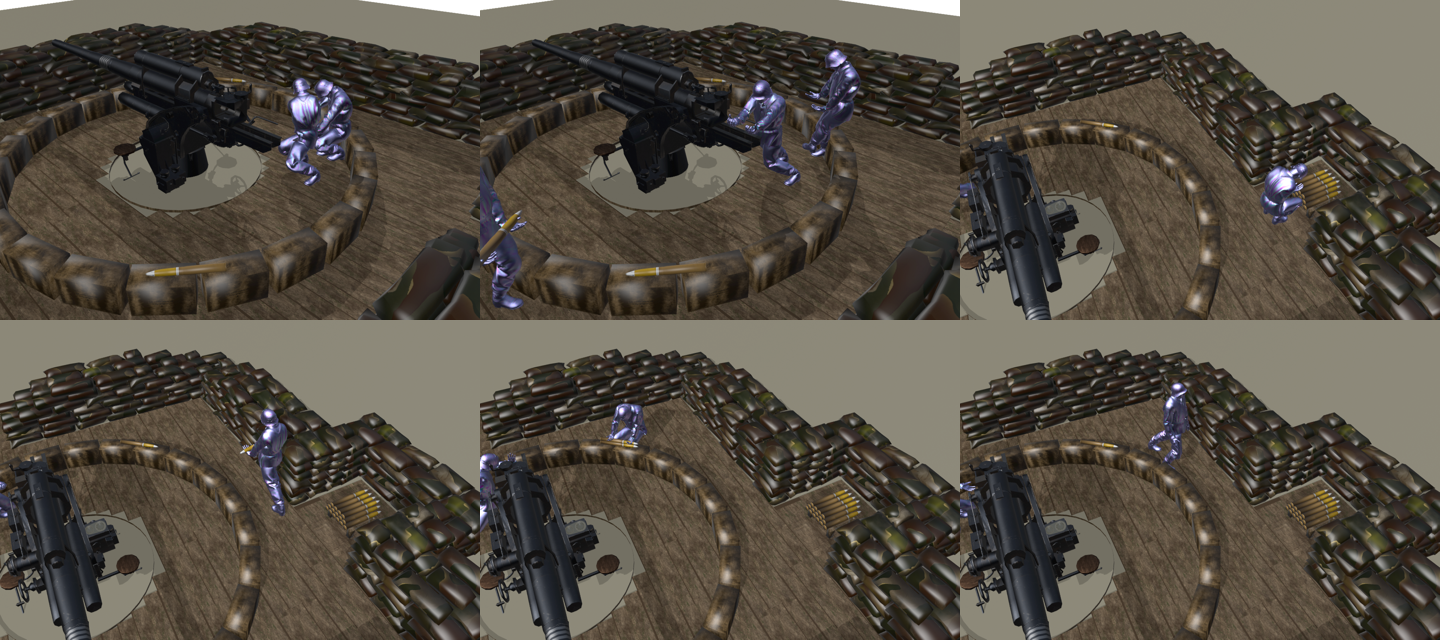
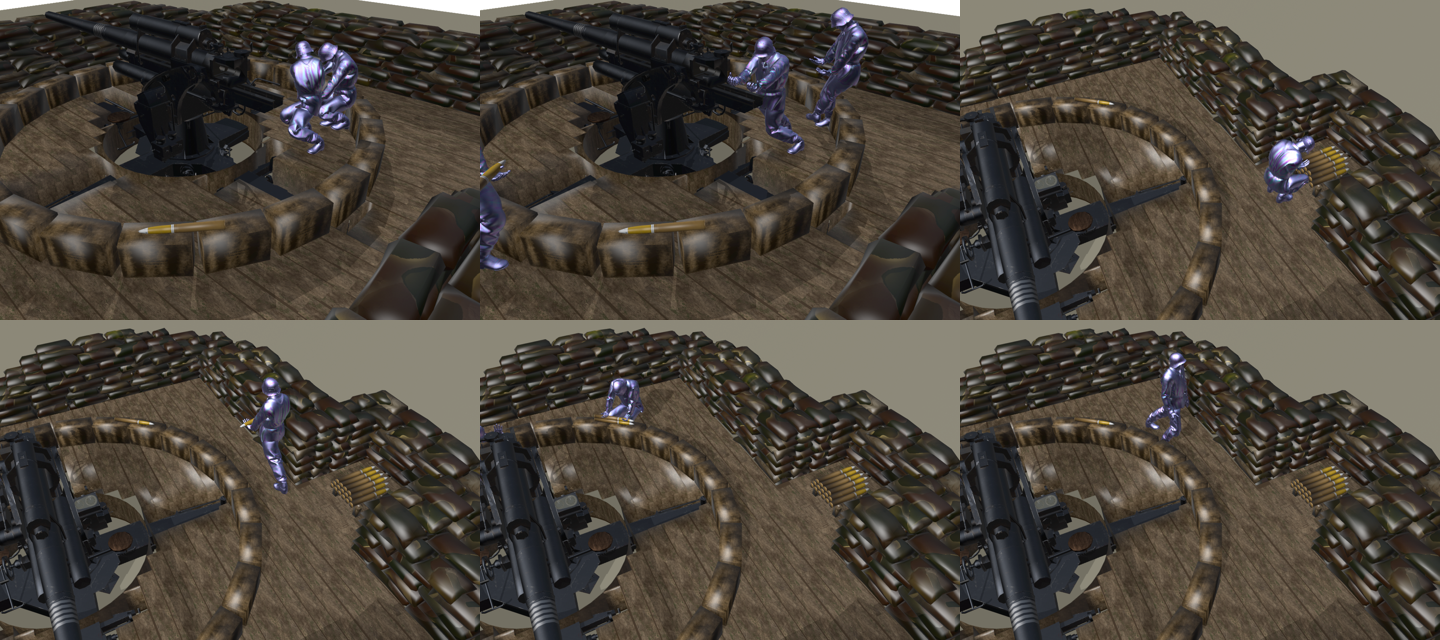
Update in RTS_Survival/Buildings/BuildingExpansion/GunPit/Tests/GunPitTestScenario.cpp: 1 namespace GunPitTestPrivate 2 void FGunPitTestScenario::CheckAttachments(FGunPitUnderTest& Pit)

diff --git a/RTS_Survival/Buildings/BuildingExpansion/GunPit/Tests/GunPitTestScenario.cpp b/RTS_Survival/Buildings/BuildingExpansion/GunPit/Tests/GunPitTestScenario.cpp
@@ -281,8 +281,8 @@ namespace GunPitTestPrivate
 	const TCHAR* const Flak88PitClassPath =
 		TEXT("/Game/RTS_Survival/Blueprints/Buildings/BuildingExpansions/GerPits/Ger_BXP_GerPit_Flak88.Ger_BXP_GerPit_Flak88_C");
 	constexpr int32 Flak88CrewCount = 2;
-	// The 88 stands this far below the pit's ground (flak88_pit_layout.json gun_sink), so its cross arms lie under the deck.
-	constexpr float Flak88GunHeight = -52.f;
+	// The 88 stands on the pit's ground (flak88_pit_layout.json gun_sink 0): its legs show, level with the deck.
+	constexpr float Flak88GunHeight = 0.f;
 	// The runner's round as he takes it from the niche and as he lays it on his crate, on PitStatic
 	// (flak88_pit_crew.py: NICHE_ROUND and the drop crate's round).
 	const FVector Flak88RunnerNicheRound(112.f, -376.55f, 44.68f);
@@ -299,6 +299,7 @@ namespace GunPitTestPrivate
 		// The crew are snapped to PitOrigin; their animations carry their spots.
 		Pit.LoaderSpot = FVector::ZeroVector;
 		Pit.ExpectedCrewCount = Flak88CrewCount;
+		Pit.bChecksGunHeight = true;
 		Pit.ExpectedGunHeight = Flak88GunHeight;
 		Pit.bHasReadyCrate = false;
 		// Both men stand idle at the shot: the reload starts at the next fire attempt, after the cooldown.
@@ -710,11 +711,11 @@ void FGunPitTestScenario::CheckAttachments(FGunPitUnderTest& Pit)
 	       "root_bone_scale=%s"), *Pit.Label, *GetNameSafe(GunMesh->GetSkeletalMeshAsset()),
 	       *GetNameSafe(GunMesh->GetAnimInstance()), *GunMesh->GetComponentScale().ToCompactString(),
 	       *GunMesh->GetBoneName(0).ToString(), *RootBone.GetScale3D().ToCompactString());
-	if (not FMath::IsNearlyZero(Pit.ExpectedGunHeight) && Pit.Pit.IsValid())
+	if (Pit.bChecksGunHeight && Pit.Pit.IsValid())
 	{
 		const float GunHeight = GunMesh->GetComponentLocation().Z - Pit.Pit->GetActorLocation().Z;
 		Check(FMath::IsNearlyEqual(GunHeight, Pit.ExpectedGunHeight, MaximumGunHeightError),
-		      Pit.Label + TEXT("_gun_sunk_in_pit"), FString::Printf(TEXT("gun_height=%.1f"), GunHeight));
+		      Pit.Label + TEXT("_gun_at_pit_height"), FString::Printf(TEXT("gun_height=%.1f"), GunHeight));
 	}
 	const float OriginScale = GunMesh->GetSocketTransform(Pit.PitOriginSocket).GetScale3D().GetMax();
 	Check(FMath::IsNearlyEqual(OriginScale, 1.f, MaximumScaleError), Pit.Label + TEXT("_pit_origin_unscaled"),

diff --git a/Docs/Units/GerFlak88Pit.md b/Docs/Units/GerFlak88Pit.md
@@ -1,6 +1,6 @@
 # German Flak 88 emplacement
 
-The game's 8.8 cm Flak dug in behind high, thick sandbag walls, built from the German HQ's **Field Defenses** tab ([../UI/FieldDefenses.md](../UI/FieldDefenses.md)). The walls stand so high that the barrel only just clears them.
+The game's 8.8 cm Flak, standing on its cross legs behind high, thick sandbag walls, built from the German HQ's **Field Defenses** tab ([../UI/FieldDefenses.md](../UI/FieldDefenses.md)). The walls stand so high that the barrel only just clears them.
 
 Three men keep the gun firing:
 - the **ammo runner** walks back and forth between an ammo niche in the wall and a ring of ready-round crates around the gun;
@@ -20,21 +20,21 @@ The gun, the loader and the handler turn a full circle. The runner and the ring 
 | Expansion type | `BTX_GerFlak88Pit` ("Flak 88 Emplacement") |
 | Blueprint (`.../BuildingExpansions/GerPits/`) | `Ger_BXP_GerPit_Flak88`, turret `Turrets/RTS_BP_EmbTurret_GerPit_Flak88` |
 | Weapon | `Flak37_88MM`, the embedded 88's weapon and its effects (AAShell projectile, 88 sound, shell case, heavy-calibre impacts): 5 s reload, 1 s cooldown |
-| Turret | 35 degrees per second, pitch 0 to 10 degrees: the barrel clears the walls by 6.5 cm at 0 degrees, so it may not dip |
+| Turret | 35 degrees per second, pitch 0 to 10 degrees: the barrel clears the walls by 6 cm at 0 degrees, so it may not dip |
 | Health | 1.3 × the gun pit base (`FBxpDataHelpers::InitGerGunPitBxpData`) |
 | Cost | 560 radixite, 360 metal (`DeveloperSettings::GameBalance::UnitCosts::Bxps`) |
 | Requirement | Communication Center (the tier II building), like the howitzer pits |
 | Build time | `BxpT2BuildTime` (25 s) |
 | Footprint | 1200 × 1200 |
 
-## The emplacement (`SM_GerFlak88Pit`, 34,700 triangles)
+## The emplacement (`SM_GerFlak88Pit`, 30,400 triangles)
 
 All in pit space: x forward, y right, ground at 0.
-- **Gun.** The 88 stands 52 cm below the ground (the expansion's turret child actor sits at z = −52). Its static cross arms, up to 55 cm high, end under the 4 cm plank deck. The deck has a round hole of 1.16 m radius, where the turning carriage passes below deck level. The bore is 117 cm above the deck.
-- **Walls.** Straight, three bags wide (stretchers in running bond), six courses: 107.5 cm, against the barrel's underside at about 114 cm over the walls at 0 degrees. The bags are the single bags of the German wall section `SM_Sandbags_1`, with their own UVs. The middle row is only laid where it shows: the top course, the steps and the wall ends. The square is 7.2 m inside and 9.5 m outside.
-- **Stepped corners.** From the fourth course up, each course stops one bag length shorter towards every outer corner, so each corner steps down from six courses to three.
-- **Entrance.** A gap in the rear wall, right of the centre, with cheeks that step back half a bag per course and a plank floor through it.
-- **Ammo niche.** An open-topped bay through the left wall, 1.44 m wide, bulging 1.2 m out past it, with its own two-bag walls. Fifteen 88 mm rounds (`SM_Ammo_88mm`, its own UVs) lie in a 6-5-4 pyramid on a plank rack, their brass bases towards the pit.
+- **Gun and deck.** The 88 stands on the ground with its cross legs showing. The plank floor is a deck 56 cm up, level with the tops of the legs (50 to 55 cm). The legs show through slots cut round them, and the slot sides are planked down to the ground. The crew stand on the deck, so nobody who turns with the gun walks through a leg, and the bore is 117 cm above them, where the loader lays the round. The deck has a round hole of 1.16 m radius, where the turning carriage passes below deck level. Under the crate ring the deck is closed, so the crates stand on planks.
+- **Walls.** Straight, three bags wide (stretchers in running bond), nine courses: 160 cm from the ground (104 cm above the deck), against the barrel's underside at about 166 cm over the walls at 0 degrees. The bags are the single bags of the German wall section `SM_Sandbags_1`, with their own UVs. The middle row is only laid where it shows (the top course, the steps and the wall ends); the inner row starts at the deck. The square is 7.2 m inside and 9.5 m outside. To save triangles (20,000 for the 875 bags), no bag has its underside, the inner and outer rows leave out the side facing into the wall (except at the wall ends), and the five lowest courses use only the section's lightest bags (28 to 32 triangles).
+- **Stepped corners.** From the seventh course up, each course stops one bag length shorter towards every outer corner, so each corner steps down from nine courses to six.
+- **Entrance.** A gap in the rear wall, right of the centre, with cheeks that step back half a bag per course, a landing at deck height and three plank steps down to the ground.
+- **Ammo niche.** An open-topped bay through the left wall, 1.44 m wide, bulging 1.2 m out past it, with its own two-bag walls and a floor at deck height. Fifteen 88 mm rounds (`SM_Ammo_88mm`, its own UVs) lie in a 6-5-4 pyramid on a plank rack, their brass bases towards the pit.
 - **Ready-round ring.** 24 closed crates at 2.62 m radius (the ammo box texture's "Luftdichter Patronenkasten" side), with a round lying on the runner's drop crate (rear left) and on one more.
 
 Materials: `GerPit_Atlas` (deck, rack), `GerPit_Ammo` (crates), `GerPit_Sandbag` (bags) and `Flak88Pit_Shell` (`M_Flak88_Ammo`). Nanite is off.
@@ -95,7 +95,7 @@ The import deletes and reimports the crew animations. After reimporting them, ru
 ## Testing
 
 `-GerFlak88PitValidate` on TestCover spawns the pit as the player's, orders it to attack the ground 60 degrees off its forward and checks:
-- the gun stands 52 cm below the pit's ground;
+- the gun stands on the pit's ground;
 - the two gun crew on `PitOrigin` and the runner on `PitStatic` with his round;
 - the gun and its crew turned to the target;
 - two shots;
